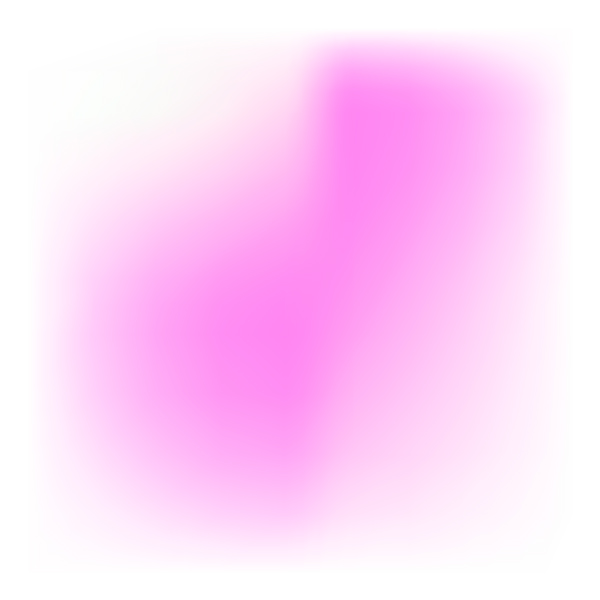
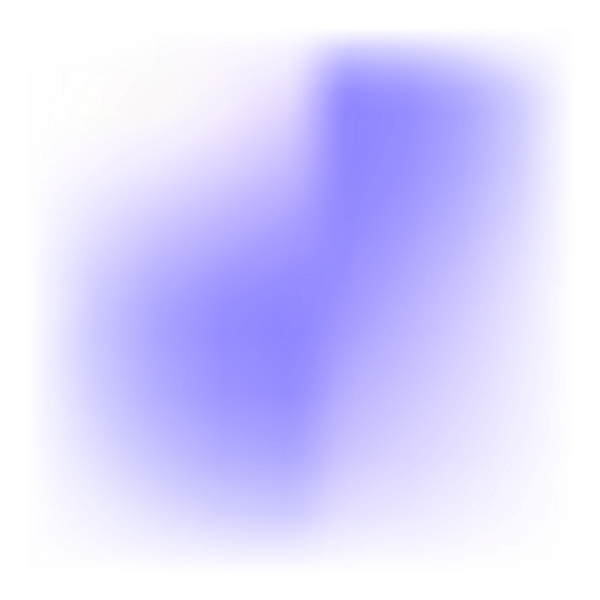
포스트 리스트, 컬러 등 전반적인 디자인 수정

diff --git a/src/components/lists/PostList.tsx b/src/components/lists/PostList.tsx
@@ -5,6 +5,7 @@ import styled from "styled-components";
 import { Sv, St, Profile } from "components";
 import { SvTest } from "components/styled-components/StyledComponentTest";
 import dummy from "images/dummy.png";
+import main_bg1 from "images/main-bg1.jpg";
 import { colors } from "styles/colors";
 import Skeleton, { SkeletonTheme } from "react-loading-skeleton";
 
@@ -20,7 +21,7 @@ interface PostListProps {
 }
 export const PostList: React.FC<PostListProps> = ({
   href = "/",
-  imgSrc = dummy,
+  imgSrc = main_bg1,
   date = "date",
   category = "category",
   title = "title",
@@ -29,10 +30,10 @@ export const PostList: React.FC<PostListProps> = ({
   viewCount = "viewCount",
 }) => {
   return (
-    <Link href={href}>
-      <Sv pt={32}>
-        <Sv row jsb pointer w="100%">
-          <Sv>
+    <>
+      <Link href={href}>
+        <Sv pt={32} jsb>
+          <Sv pointer w="100%">
             <Sv row>
               <St b1 g0 text={category} />
               <St b1 g2 text={` · ${date}`} />
@@ -41,21 +42,24 @@ export const PostList: React.FC<PostListProps> = ({
               <St s1 g0 mt={4} text={title} />
               <S.BodyText b1 g3 mt={8} text={body} />
             </Sv>
+            <Sv mt={8}>
+              <St c1 g2 text={`${likeCount} · ${viewCount}`} />
+            </Sv>
           </Sv>
-          <S.Image src={imgSrc} width={112} height={112} objectFit="cover" />
+          <S.Image src={imgSrc} width={140} height={140} objectFit="cover" />
         </Sv>
-        <Sv mt={8}>
-          <St c1 g2 text={`${likeCount} · ${viewCount}`} />
-        </Sv>
-        <Sv h={1} bg={colors.g4} mt={32} />
-      </Sv>
-    </Link>
+      </Link>
+      <Sv h={1} bg={colors.g5} mt={32} />
+    </>
   );
 };
 
 const S: any = {};
 
-S.Image = styled(Image)``;
+S.Image = styled(Image)`
+  max-width: 140px;
+  max-height: 140px;
+`;
 
 S.BodyText = styled(St)`
   overflow: hidden;

diff --git a/src/components/styled-components/StyledText.tsx b/src/components/styled-components/StyledText.tsx
@@ -171,68 +171,57 @@ const h3 = css`
   line-height: 1.4;
 `;
 const s1 = css`
-  font-family: "Pretendard-Bold";
-  font-weight: bold;
+  font-weight: 500;
   font-size: 22px;
   line-height: 1.4;
 `;
 const s2 = css`
-  font-family: "Pretendard-Bold";
-  font-weight: bold;
+  font-weight: 500;
   font-size: 18px;
   line-height: 1.4;
 `;
 const s3 = css`
-  font-family: "Pretendard-Bold";
-  font-weight: bold;
+  font-weight: 500;
   font-size: 16px;
   line-height: 1.4;
 `;
 const s4 = css`
-  font-family: "Pretendard-Bold";
-  font-weight: bold;
+  font-weight: 500;
   font-size: 14px;
   line-height: 1.4;
 `;
 const s5 = css`
-  font-family: "Pretendard-Bold";
-  font-weight: bold;
+  font-weight: 500;
   font-size: 11px;
   line-height: 1.4;
 `;
 const b1 = css`
-  font-family: "Pretendard-Regular";
-  font-style: normal;
-  font-weight: normal;
+  font-weight: 100;
   font-size: 16px;
   line-height: 1.4;
 `;
 const b2 = css`
-  font-family: "Pretendard-Regular";
-  font-style: normal;
-  font-weight: normal;
+  font-weight: 100;
   font-size: 14px;
   line-height: 1.4;
 `;
 const b3 = css`
-  font-family: "Pretendard-Regular";
-  font-style: normal;
-  font-weight: normal;
+  font-weight: 100;
   font-size: 12px;
   line-height: 1.4;
 `;
 const c1 = css`
-  font-family: "Pretendard-Medium";
+  font-weight: 200;
   font-size: 13px;
   line-height: 1.4;
 `;
 const c2 = css`
-  font-family: "Pretendard-Medium";
+  font-weight: 200;
   font-size: 12px;
   line-height: 1.4;
 `;
 const c3 = css`
-  font-family: "Pretendard-Medium";
+  font-weight: 200;
   font-size: 10px;
   line-height: 1.4;
 `;

diff --git a/src/styles/colors.tsx b/src/styles/colors.tsx
@@ -9,14 +9,14 @@ export const colors = {
   primary: "#1890ff",
   secondary: "#00B881",
   white: "#fff",
-  g0: getMode() ? "#fff" : "#000",
-  g1: getMode() ? "#FAFAFA" : "#3A3A3A",
-  g2: getMode() ? "#F1F1F1" : "#606060",
-  g3: getMode() ? "#E6E6E6" : "#9E9E9E",
-  g4: getMode() ? "#d9d9d9" : "#d9d9d9",
-  g5: getMode() ? "#9E9E9E" : "#ebebeb",
-  g6: getMode() ? "#606060" : "#f7f7f7",
-  g7: getMode() ? "#3A3A3A" : "#FAFAFA",
+  g0: getMode() ? "#fff" : "#161D24",
+  g1: getMode() ? "#FAFAFA" : "#28323C",
+  g2: getMode() ? "#F1F1F1" : "#374553",
+  g3: getMode() ? "#E6E6E6" : "#646F7C",
+  g4: getMode() ? "#d9d9d9" : "#A3A9AF",
+  g5: getMode() ? "#9E9E9E" : "#E3E5EA",
+  g6: getMode() ? "#606060" : "#F1F3F8",
+  g7: getMode() ? "#3A3A3A" : "#FAFBFC",
   g8: getMode() ? "#3A3A3A" : "#fcfcfc",
   g10: getMode() ? "#000" : "#fff",
   black: "#000",

diff --git a/src/pages/blog/LeftContainer.tsx b/src/pages/blog/LeftContainer.tsx
@@ -84,7 +84,7 @@ export default function LeftContainer() {
 const S: any = {};
 
 const blur = css`
-  background: rgba(255, 255, 255, 0.25);
+  background: rgba(255, 255, 255, 0.5);
   backdrop-filter: blur(30px);
   box-shadow: 0 8px 32px 0 rgba(0, 0, 0, 0.05);
   -webkit-backdrop-filter: blur(4px);
